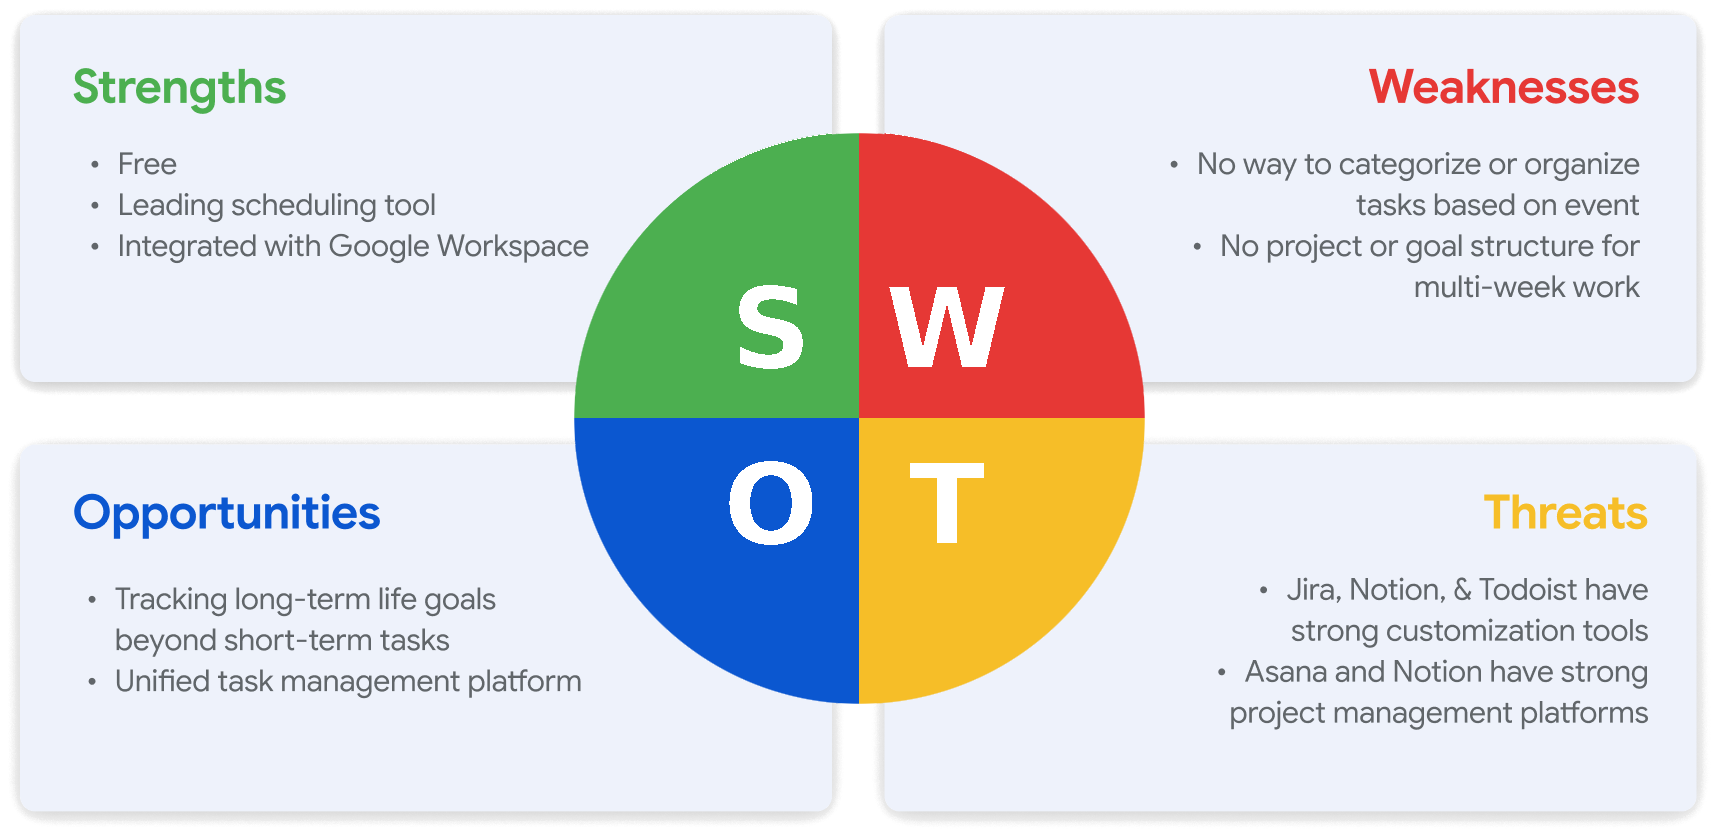
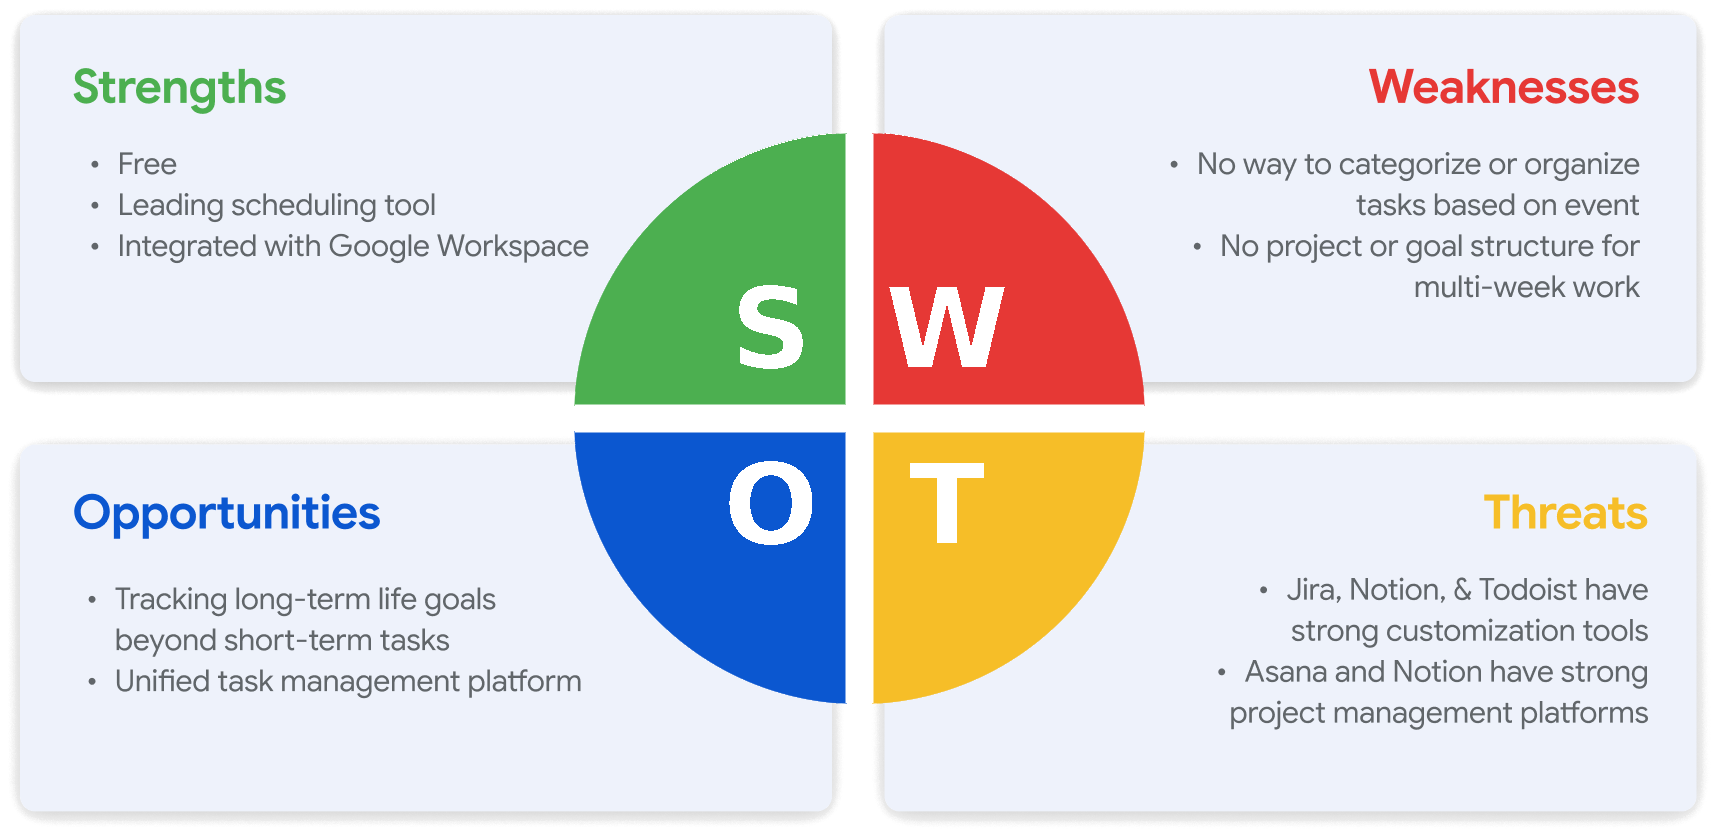
Restore SWOT quadrant gaps and scale down the diagram
Cut a white cross between the solid S/W/O/T pies so the center
circle keeps clear gaps, and constrain the flush SWOT figure to 82%
width so the whole visual reads smaller without other layout changes.

Changed region(s): [[0.3083, 0.1553, 0.6783, 0.8387]]

diff --git a/css/main.css b/css/main.css
@@ -4324,6 +4324,15 @@ p {
   background: transparent;
   box-shadow: none;
   overflow: visible;
+  width: 82%;
+  margin-left: auto;
+  margin-right: auto;
+}
+
+.case-study-page--current #process .case-market-table--flush {
+  width: 82%;
+  margin-left: auto;
+  margin-right: auto;
 }
 
 #process .case-process-competitive .case-body--process + .case-competitive__logos {
